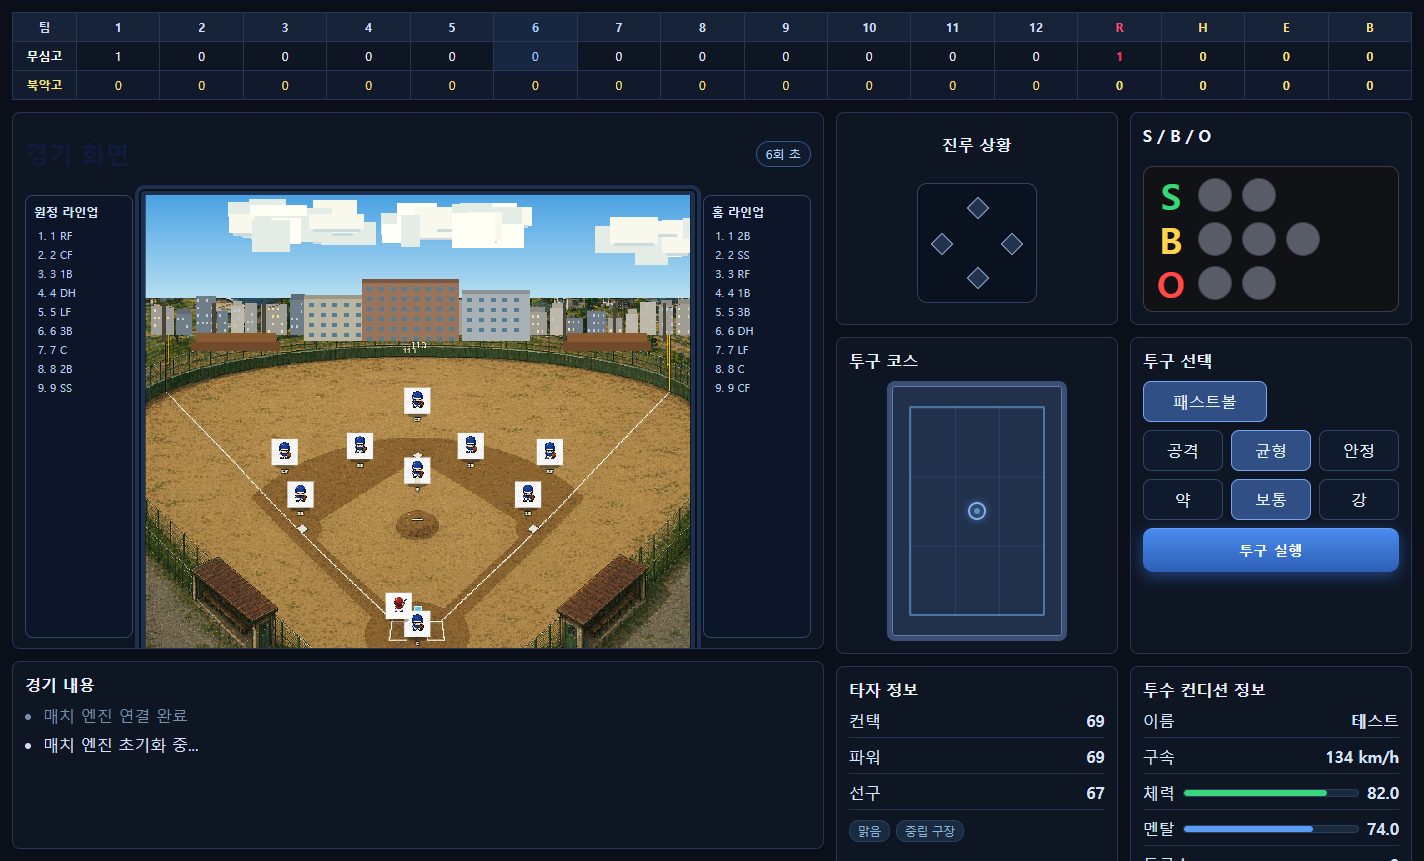
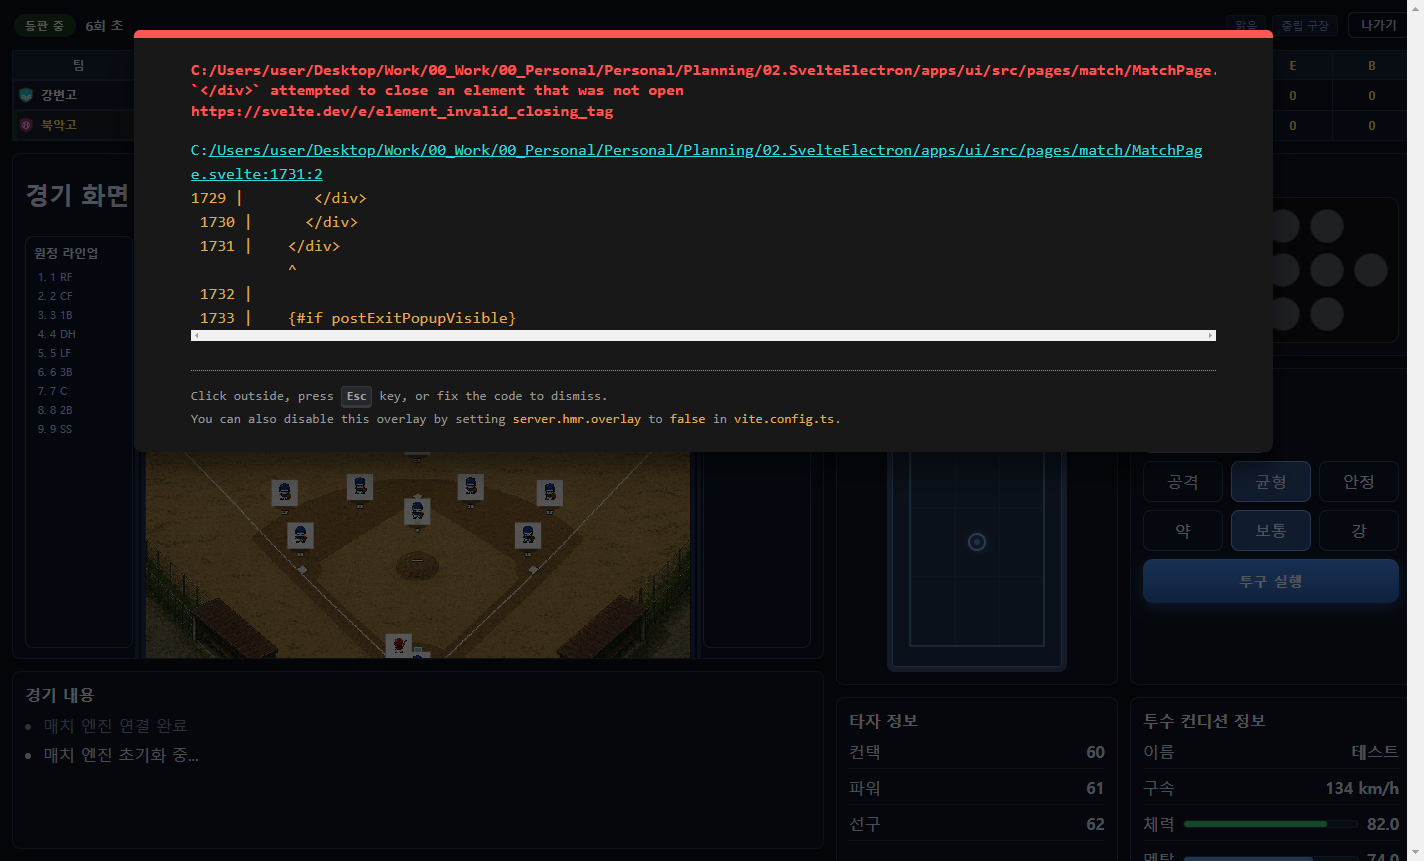
impl(match): U7-a 스코어보드 · 상황 · 모드 분기 · 나가기
## 엔진이 보내던 값을 처음 읽는다

`isProtagonistPitching`이 Rust에서 스냅샷으로 계속 오는데 **UI가 한 번도
안 읽었다** — 타입 선언 한 줄뿐이었다(match_engine.rs:242 → lib.rs:121 →
projectb.d.ts:358 → MatchPage). 화면은 대신 `currentPhase`로 **버튼만
비활성화**했고, 관전 중에도 구종 버튼 10개·존·실행 버튼이 그대로 떠 있어
"내가 뭘 해야 하는데 안 되는 건가"로 읽혔다.

이제 관전이면 그 패널들을 **접는다.** 비활성화가 아니라 접는 것이다.
빈자리에는 지금 무슨 일이 벌어지는지(등판 전인가 교체됐나·점수)를 둔다.

## 나가는 길이 화면에 생겼다

`onCancel`이 Esc에만 걸려 있어 경기 도중 나가려면 그 단축키를 알아야 했다.
상단 줄에 나가기 버튼을 뒀다. 같은 줄에 등판/관전 칩·이닝·날씨·구장이 온다 —
날씨와 구장은 타자 패널 안에 있었는데 **타자마다 바뀌는 값이 아니다**(§3-3).

## 두 팀을 색이 아니라 마크로 가른다

§3-6을 폐기하고 다시 썼다(별도 커밋). 스코어보드 두 행은 중성이고 팀 식별은
TeamMark가 한다. 내 팀 행만 --t-accent 띠 + 노란 글씨로 표시한다.

## 주자 + 카운트를 한 패널로

둘은 한 상황의 두 축인데 상자가 둘이라 "2사 만루"를 읽는 데 눈이 두 번
움직였다. `.panel { min-height: 170px }`도 뺐다 — 여섯 칸이 전부 같은 높이라
카운트(램프 7개)와 구종 선택(버튼 10개)이 같은 자리를 먹고 있었다.

## 실행해서 잡은 것 둘

**"경기 화면" 제목이 배경에 묻혀 있었다.** `.scene-panel h2`에 색 규칙이
없어 전역 `--ink`(거의 검정)를 물려받았고 `#0a0f1a` 위의 검정이었다.
규칙마다 색을 적어 막으면 새 요소가 생길 때 또 뚫리므로 **어두운 섬의
뿌리(`.match-engine-empty`)에서 한 번 정하게** 고쳤다.

**svelte-check가 템플릿 태그 불균형을 못 잡았다.** `{#if onMound}`를 넣으며
`</div>` 하나가 빠졌는데 svelte-check는 기준선(50)을 그대로 냈고 Vite가
컴파일에서 걸렀다. 정적 검사만 믿으면 안 되는 자리가 하나 더 있다.

날씨·구장 배지를 옮기며 죽은 CSS 두 규칙(.match-env-badges·.env-badge)도 뺐다.

드라이버: 스크린샷에 animations:"disabled"를 켰다 — 주자 스프라이트가
0.8초마다 깜박여서(gbcBlink) 기본 옵션은 30초를 다 쓰고 실패한다.

회귀: vitest 217 · tsc 6 · svelte-check 50/66 · check:park · teamcolors 통과

diff --git a/02.SvelteElectron/apps/ui/src/pages/match/MatchPage.svelte b/02.SvelteElectron/apps/ui/src/pages/match/MatchPage.svelte
@@ -7,6 +7,7 @@
   import type { EntityRow, EntityDetails } from "../../shared/stores/master";
   import type { InteractiveMatchContext, InteractiveMatchResult } from "../../shared/types/season";
   import { parkViewForHomeTeam } from "../../shared/utils/parkView";
+  import TeamMark from "../../features/team/ui/TeamMark.svelte";
 
 
   export let matchContext: InteractiveMatchContext | null = null;
@@ -513,6 +514,21 @@
   let postExitPopupVisible = false;
   let postExitReason = "";
 
+  // ── 등판 / 관전 (U7-a) ────────────────────────────────────────
+  //
+  // ⚠ `isProtagonistPitching`은 Rust가 계산해 스냅샷으로 보내는데
+  // **UI가 한 번도 안 읽었다.** 타입 선언 한 줄뿐이었다(match_engine.rs:242 →
+  // lib.rs:121 → projectb.d.ts:358 → 여기).
+  //
+  // 화면은 대신 `currentPhase !== "protagonist_pitch"`로 **버튼만 비활성화**
+  // 했다. 관전 중에도 구종 버튼 10개·존·실행 버튼이 그대로 떠 있고 눌리지만
+  // 않아서 "내가 뭘 해야 하는데 안 되는 건가"로 읽혔다.
+  let isProtagonistPitching = true;
+
+  /** 지금 내가 던지고 있나. 아니면 관전이다 */
+  $: onMound = isProtagonistPitching && currentPhase === "protagonist_pitch";
+  $: modeLabel = onMound ? "등판 중" : "관전";
+
   let inning = 1;
   let half: "top" | "bottom" = "top";
 
@@ -796,6 +812,8 @@
     if (snapshot.phase !== undefined) currentPhase = snapshot.phase;
     if (snapshot.protagonistHasEntered !== undefined) protagonistHasEntered = snapshot.protagonistHasEntered;
     if (snapshot.protagonistSide !== undefined) protagonistSide = snapshot.protagonistSide;
+    // 엔진이 계속 보내던 값 — U7-a에서 처음 읽는다
+    if (snapshot.isProtagonistPitching !== undefined) isProtagonistPitching = snapshot.isProtagonistPitching;
     snapshotPitchCount = snapshot.pitchCount;
     snapshotPitchCountSinceEntry = snapshot.pitchCountSinceEntry ?? 0;
 
@@ -1395,6 +1413,21 @@
 </script>
 
 <section class="match-engine-empty" aria-label="match engine workspace">
+  <!--
+    상단 줄 — 어느 경기이고, 내가 지금 뭘 하는 중이고, 어떻게 나가나.
+    ⚠ 예전엔 **나가는 길이 화면에 없었다.** `onCancel`이 Esc에만 걸려 있어서
+    경기 도중 나가려면 그 단축키를 알아야 했다.
+  -->
+  <div class="match-bar">
+    <span class="mode-chip" class:on-mound={onMound}>{modeLabel}</span>
+    <span class="bar-inning">{inningHalfLabel}</span>
+    <span class="bar-park">
+      <span class="chip-mini">{WEATHER_LABEL[matchWeather]}</span>
+      <span class="chip-mini">{PARK_LABEL[matchPark]}</span>
+    </span>
+    <button class="exit-btn" type="button" on:click={onCancel} title="Esc">나가기</button>
+  </div>
+
   <div class="scoreboard-wrap">
     <table class="scoreboard" aria-label="baseball scoreboard">
       <thead>
@@ -1412,15 +1445,25 @@
       <tbody>
         {#each scoreRows as row, i}
           {@const isMyTeam = (i === 0 && protagonistSide === "away") || (i === 1 && protagonistSide === "home")}
+          {@const rowTeamId = i === 0 ? (matchContext?.awayTeamId ?? "") : (matchContext?.homeTeamId ?? "")}
           <tr class:my-team-row={isMyTeam}>
-            <th class="team-col">{row.team}</th>
+            <th class="team-col">
+              <!--
+                ⚠ **두 팀을 색으로 가르지 않는다.** 헤더용 팀 색은 238팀이
+                전부 L*26으로 눌려서 30.8%의 대진이 구분되지 않는다(§3-6 실측).
+                형태로 가르는 마크가 그 일을 한다 — 같은 리그 안에서 안 겹치는
+                게 테스트로 보증된다.
+              -->
+              {#if rowTeamId}<TeamMark teamId={rowTeamId} size={16} />{/if}
+              <span class="team-name">{row.team}</span>
+            </th>
             {#each row.inningScores as inningScore, i}
               <td class:current-inning={i + 1 === inning}>{inningScore}</td>
             {/each}
-            <td>{row.r}</td>
-            <td>{row.h}</td>
-            <td>{row.e}</td>
-            <td>{row.b}</td>
+            <td class="rhe r-col">{row.r}</td>
+            <td class="rhe">{row.h}</td>
+            <td class="rhe">{row.e}</td>
+            <td class="rhe">{row.b}</td>
           </tr>
         {/each}
       </tbody>
@@ -1503,20 +1546,25 @@
     </div>
 
     <div class="right-column">
-      <div class="pair-row">
-        <section class="panel base-panel" aria-label="base state panel">
-          <h2>{baseStatusTitle}</h2>
-          <div class="diamond">
-            <div class="base b2" class:on={runners.second}></div>
-            <div class="base b3" class:on={runners.third}></div>
-            <div class="base b1" class:on={runners.first}></div>
-            <div class="base home"></div>
+      <!--
+        주자와 카운트를 한 패널로 합쳤다. 둘은 **한 상황의 두 축**이고
+        따로 보면 "2사 만루"를 읽는 데 눈이 두 번 움직인다.
+      -->
+      <section class="panel situation-panel" aria-label="base and count panel">
+        <h2>상황</h2>
+        <div class="situation-body">
+          <div class="base-panel">
+            <div class="diamond">
+              <div class="base b2" class:on={runners.second}></div>
+              <div class="base b3" class:on={runners.third}></div>
+              <div class="base b1" class:on={runners.first}></div>
+              <div class="base home"></div>
+            </div>
           </div>
-        </section>
 
-        <section class="panel count-panel" aria-label="count panel">
-          <h2>{countTitle}</h2>
-          <div class="sbo-board">
+          <div class="count-panel">
+            <h3 class="sr-only">{countTitle}</h3>
+            <div class="sbo-board">
             <div class="sbo-row">
               <span class="sbo-label strike">S</span>
               <div class="sbo-lamps">
@@ -1541,10 +1589,16 @@
                 {/each}
               </div>
             </div>
-          </div>
-        </section>
-      </div>
+          </div><!-- /.sbo-board -->
+          </div><!-- /.count-panel -->
+        </div><!-- /.situation-body -->
+      </section>
 
+      <!--
+        관전 중에는 접는다. **비활성화가 아니라 접는 것**이다 — 눌리지 않는
+        버튼 10개가 그대로 떠 있으면 "내가 뭘 해야 하는데 안 되는 건가"로 읽힌다.
+      -->
+      {#if onMound}
       <div class="pair-row">
         <section class="panel zone-panel" aria-label="pitch zone panel">
           <h2>{zoneTitle}</h2>
@@ -1634,6 +1688,16 @@
           {/if}
         </section>
       </div>
+      {:else}
+        <!-- 관전 — 조작할 게 없으니 지금 무슨 일이 벌어지는지만 크게 둔다 -->
+        <section class="panel watch-panel" aria-label="spectator panel">
+          <h2>관전 중</h2>
+          <p class="watch-note">
+            {protagonistHasEntered ? "교체돼 벤치에 있다." : "아직 등판하지 않았다."}
+          </p>
+          <p class="watch-sub">{inningHalfLabel} · {scoreRows[0].r} : {scoreRows[1].r}</p>
+        </section>
+      {/if}
 
       <div class="pair-row">
         <section class="panel info-panel" aria-label="batter info panel">
@@ -1643,10 +1707,6 @@
               <li><span>{info.label}</span><strong>{info.value}</strong></li>
             {/each}
           </ul>
-          <div class="match-env-badges">
-            <span class="env-badge">{WEATHER_LABEL[matchWeather]}</span>
-            <span class="env-badge">{PARK_LABEL[matchPark]}</span>
-          </div>
         </section>
 
         <section class="panel info-panel" aria-label="pitcher info panel">
@@ -1739,11 +1799,20 @@
     width: 100vw;
     height: 100vh;
     background: #0a0f1a;
+    /*
+      ⚠ **뿌리가 글자색을 정한다.** 이게 없어서 "경기 화면" 제목이 안 보였다 —
+      `.scene-panel h2`에 색 규칙이 없어 전역 `--ink`(거의 검정)를 물려받았고,
+      `#0a0f1a` 위의 검정이라 배경에 묻혔다. 실행해서야 보였다.
+
+      규칙마다 색을 적어 막는 건 새 요소가 생길 때마다 또 뚫린다.
+      **어두운 섬은 뿌리에서 한 번 정한다.**
+    */
+    color: #e4edff;
     padding: 12px;
     box-sizing: border-box;
     overflow: hidden;
     display: grid;
-    grid-template-rows: auto minmax(0, 1fr);
+    grid-template-rows: auto auto minmax(0, 1fr);
     gap: 12px;
   }
 
@@ -1751,6 +1820,81 @@
     width: 100%;
     overflow-x: auto;
     margin-bottom: 0;
+  }
+
+  /* ── 상단 줄 (U7-a) ── */
+  .match-bar {
+    display: flex;
+    align-items: center;
+    gap: 10px;
+    padding: 0 2px;
+  }
+  .mode-chip {
+    font-size: 11px;
+    font-weight: 800;
+    letter-spacing: 0.06em;
+    padding: 3px 10px;
+    border-radius: 20px;
+    background: #1a2438;
+    color: #8fa8c8;
+    border: 1px solid #2a3a56;
+  }
+  /* 등판 중일 때만 눈에 띈다 — 관전은 가만히 있는 상태다 */
+  .mode-chip.on-mound {
+    background: var(--t-accent, #2a5aa8);
+    color: #ffffff;
+    border-color: transparent;
+  }
+  .bar-inning { font-size: 13px; font-weight: 700; color: #d8e8ff; }
+  .bar-park { display: flex; gap: 6px; margin-left: auto; }
+  .chip-mini {
+    font-size: 11px;
+    padding: 2px 8px;
+    border-radius: 4px;
+    background: #141d30;
+    color: #7e9cc4;
+    border: 1px solid #24304a;
+  }
+  .exit-btn {
+    background: none;
+    border: 1px solid #3a4d70;
+    border-radius: 6px;
+    color: #a8c0e0;
+    font-size: 12px;
+    font-weight: 700;
+    padding: 4px 12px;
+    cursor: pointer;
+  }
+  .exit-btn:hover { background: #1b2740; color: #e0ecff; }
+
+  /* 관전 패널 — 조작이 없을 때 이 자리를 뭘로 채우나 */
+  .watch-panel { display: grid; gap: 6px; align-content: start; }
+  .watch-note { margin: 0; font-size: 13px; color: #a8c0e0; }
+  .watch-sub {
+    margin: 0;
+    font-size: 20px;
+    font-weight: 800;
+    color: #e8f0ff;
+    font-variant-numeric: tabular-nums;
+  }
+
+  /* 주자와 카운트는 한 상황의 두 축이다 — 상자 하나에 나란히 */
+  .situation-body {
+    display: grid;
+    grid-template-columns: minmax(0, 1fr) auto;
+    align-items: center;
+    gap: 14px;
+  }
+  .situation-panel .diamond { margin: 0 auto; }
+
+  /* 화면에는 안 보이고 스크린리더에만 남긴다 */
+  .sr-only {
+    position: absolute;
+    width: 1px; height: 1px;
+    padding: 0; margin: -1px;
+    overflow: hidden;
+    clip: rect(0 0 0 0);
+    white-space: nowrap;
   }
 
   .settings-btn {
@@ -1798,13 +1942,30 @@
   }
 
   .team-col {
-    width: 64px;
+    width: 132px;
     text-align: left;
     padding-left: 8px;
     background: #121c2f;
     color: #ffffff;
     font-weight: 700;
   }
+  .scoreboard tbody th.team-col {
+    display: flex;
+    align-items: center;
+    gap: 7px;
+    /* 표 셀에 flex를 쓰면 높이가 무너진다 — 행 높이를 여기서 잡는다 */
+    height: 30px;
+    box-sizing: border-box;
+  }
+  .team-name {
+    overflow: hidden;
+    text-overflow: ellipsis;
+    white-space: nowrap;
+    font-weight: 600;
+  }
+  /* R은 결과다. H·E·B보다 굵게 */
+  .scoreboard td.rhe { font-variant-numeric: tabular-nums; }
+  .scoreboard td.r-col { font-weight: 800; color: #e8f0ff; }
 
   .scoreboard tbody tr:nth-child(2n) td {
     background: #101a2c;
@@ -1874,7 +2035,8 @@
   }
 
   .panel {
-    min-height: 170px;
+    /* ⚠ `min-height: 170px`을 뺐다. 여섯 칸이 전부 같은 높이라 카운트(램프 7개)와
+       구종 선택(버튼 10개)이 같은 자리를 먹었다 (§3-3) */
     background: #0e1523;
     border: 1px solid #2a3550;
     border-radius: 8px;
@@ -2339,21 +2501,7 @@
     gap: 8px;
   }
 
-  .match-env-badges {
-    display: flex;
-    gap: 6px;
-    margin-top: 10px;
-    flex-wrap: wrap;
-  }
 
-  .env-badge {
-    font-size: 0.72rem;
-    padding: 2px 8px;
-    border-radius: 10px;
-    background: #1a2a3f;
-    color: #8ab4d8;
-    border: 1px solid #2a3f5c;
-  }
 
   .stat-list li {
     display: flex;
@@ -2476,9 +2624,15 @@
     color: #aad0ff;
   }
 
+  /* 내 팀 행. **상대는 표시하지 않는다** — "내 팀 하나만 구분"은 언제나
+     성립하지만 "두 팀을 서로 구분"은 238팀에서 성립하지 않는다 (§3-6) */
   .scoreboard tr.my-team-row th,
   .scoreboard tr.my-team-row td {
     color: #ffe27a;
+    background: rgba(255, 226, 122, 0.06);
+  }
+  .scoreboard tr.my-team-row th.team-col {
+    box-shadow: inset 3px 0 0 var(--t-accent, #ffe27a);
   }
 
   @media (max-width: 1280px) {
